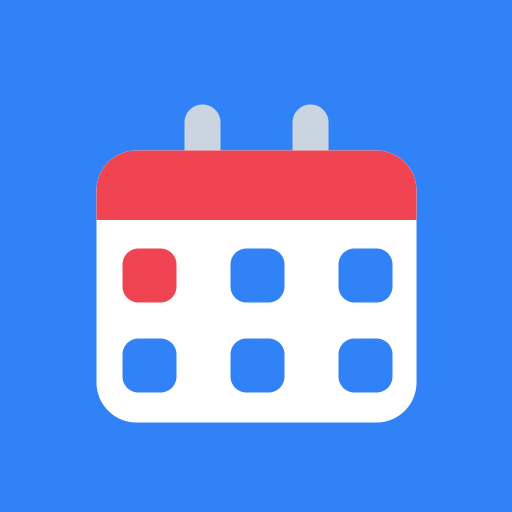
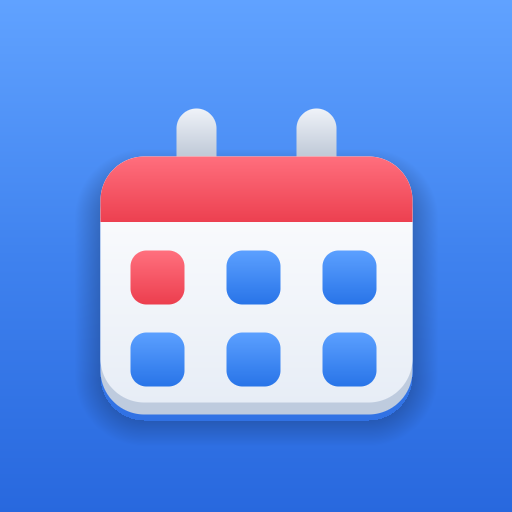
관리자 메뉴 숨김(상단 이름 탭 접근) + 설치안내 매 진입 노출 + 3D 달력 아이콘/로고

diff --git a/index.html b/index.html
@@ -42,7 +42,7 @@
     max-width:400px; width:100%; margin:0 auto;
   }
   .brand{text-align:center; margin-bottom:24px;}
-  .brand .logo{font-size:44px;}
+  .brand .logo{width:74px;height:74px;border-radius:18px;box-shadow:0 6px 16px rgba(49,130,246,.35);}
   .brand h1{margin:8px 0 4px; font-size:22px; color:var(--t1);}
   .brand p{margin:0; color:var(--t3); font-size:14px;}
   .field{margin-bottom:14px;}
@@ -202,7 +202,7 @@
 <div id="auth" class="hidden">
   <div class="auth-card">
     <div class="brand">
-      <div class="logo">🗓</div>
+      <img class="logo" src="icon-192.png" alt="김비서" />
       <h1>김비서</h1>
       <p id="authSubtitle">일정 · 아이디어 · 메모 · 일기를 한곳에</p>
     </div>
@@ -391,14 +391,17 @@ auth.onAuthStateChanged(async (user)=>{
     profileName = user.displayName || (user.email||"").split("@")[0];
     // 마지막 접속 시각 기록(앱 열 때마다 갱신)
     db.ref(`meta/${uid}`).update({ initial: profileName, lastLogin: Date.now() });
-    // 마스터(관리자) 계정 여부 확인 (이메일 기준)
+    // 마스터(관리자) 계정 여부 확인 (이메일 기준) — 관리자 메뉴는 숨김, 상단 이름 탭으로만 접근
     isAdmin = (user.email||"").toLowerCase() === ADMIN_EMAIL;
-    el("adminTab").classList.toggle("hidden", !isAdmin);
+    el("adminTab").classList.add("hidden");   // 하단 탭에서 항상 숨김
     el("auth").classList.add("hidden");
     el("app").style.display="block";
-    el("userLabel").textContent = isAdmin ? `👑 ${profileName} (관리자)` : `${profileName} 님`;
+    el("userLabel").textContent = isAdmin ? `👑 ${profileName}` : `${profileName} 님`;
+    el("userLabel").style.cursor = isAdmin ? "pointer" : "";
+    el("userLabel").title = isAdmin ? "관리자 화면 열기" : "";
+    el("userLabel").onclick = isAdmin ? ()=>switchTab(currentTab==="admin" ? "dash" : "admin") : null;
     attachListeners();
-    switchTab(isAdmin ? "admin" : "dash");
+    switchTab("dash");
   }else{
     uid=null; isAdmin=false;
     el("adminTab").classList.add("hidden");
@@ -904,12 +907,12 @@ setTimeout(()=>{
 let deferredPrompt = null;
 function isStandalone(){ return window.matchMedia('(display-mode: standalone)').matches || window.navigator.standalone === true; }
 function isIOS(){ return /iphone|ipad|ipod/i.test(navigator.userAgent); }
-function installSnoozed(){ return Date.now() < (+(localStorage.getItem("installSnooze")||0)); }
-function snoozeInstall(days){ localStorage.setItem("installSnooze", String(Date.now()+days*86400000)); }
+function installBlocked(){ return isStandalone() || localStorage.getItem("kbInstalled")==="1"; }  // 설치(또는 앱모드) 전에는 매 진입 시 안내
+function dismissInstall(){ /* 저장 안 함: 닫아도 다음 진입 시 다시 안내 */ }
 function closeInstall(){ const b=document.getElementById("installSheet"); if(b) b.remove(); }
 
 function showInstallSheet(mode){   // 'prompt'(안드로이드/데스크톱) | 'ios'
-  if(isStandalone() || installSnoozed() || document.getElementById("installSheet")) return;
+  if(installBlocked() || document.getElementById("installSheet")) return;
   const sheet=document.createElement("div");
   sheet.id="installSheet";
   sheet.style.cssText="position:fixed;left:12px;right:12px;bottom:16px;z-index:600;background:#fff;border-radius:20px;box-shadow:0 10px 36px rgba(0,0,0,.28);padding:18px;max-width:440px;margin:0 auto;animation:slideup .3s;";
@@ -924,7 +927,7 @@ function showInstallSheet(mode){   // 'prompt'(안드로이드/데스크톱) | '
         1. 하단 <b>공유</b> 버튼 <span style="font-size:16px;">⬆</span> 을 누르세요<br>
         2. <b>'홈 화면에 추가'</b> 를 선택하세요
       </div>
-      <button onclick="snoozeInstall(7);closeInstall();" style="width:100%;margin-top:12px;padding:13px;border-radius:12px;background:#3182F6;color:#fff;font-weight:700;font-size:15px;border:none;">확인</button>`;
+      <button onclick="dismissInstall();closeInstall();" style="width:100%;margin-top:12px;padding:13px;border-radius:12px;background:#3182F6;color:#fff;font-weight:700;font-size:15px;border:none;">확인</button>`;
   }else{
     sheet.innerHTML=`
       <div style="display:flex;align-items:center;gap:12px;">
@@ -939,7 +942,7 @@ function showInstallSheet(mode){   // 'prompt'(안드로이드/데스크톱) | '
   }
   document.body.appendChild(sheet);
   if(mode==="prompt"){
-    document.getElementById("instLater").onclick=()=>{ snoozeInstall(3); closeInstall(); };
+    document.getElementById("instLater").onclick=()=>{ dismissInstall(); closeInstall(); };
     document.getElementById("instYes").onclick=async ()=>{
       closeInstall();
       if(deferredPrompt){ deferredPrompt.prompt(); try{ await deferredPrompt.userChoice; }catch(e){} deferredPrompt=null; }
@@ -952,7 +955,7 @@ window.addEventListener("beforeinstallprompt",(e)=>{
   deferredPrompt=e;
   setTimeout(()=>showInstallSheet("prompt"), 1200);
 });
-window.addEventListener("appinstalled",()=>{ closeInstall(); snoozeInstall(3650); });
+window.addEventListener("appinstalled",()=>{ localStorage.setItem("kbInstalled","1"); closeInstall(); });
 
 // iOS(사파리)는 beforeinstallprompt 미지원 → 접속 시 수동 추가 안내
 if(isIOS() && !isStandalone()){ setTimeout(()=>showInstallSheet("ios"), 1500); }
